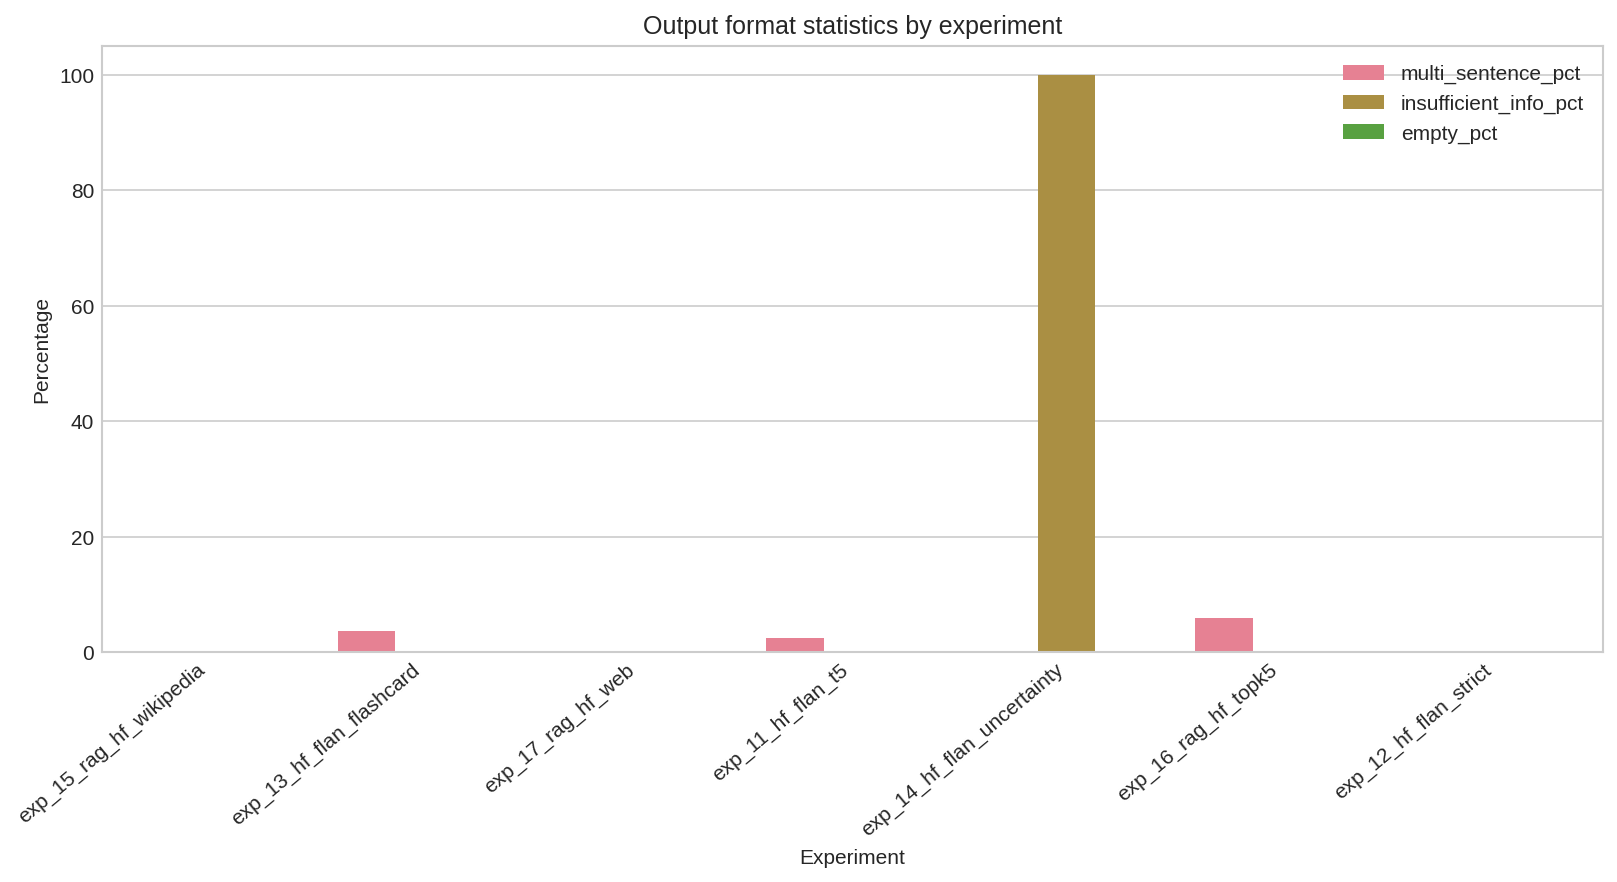
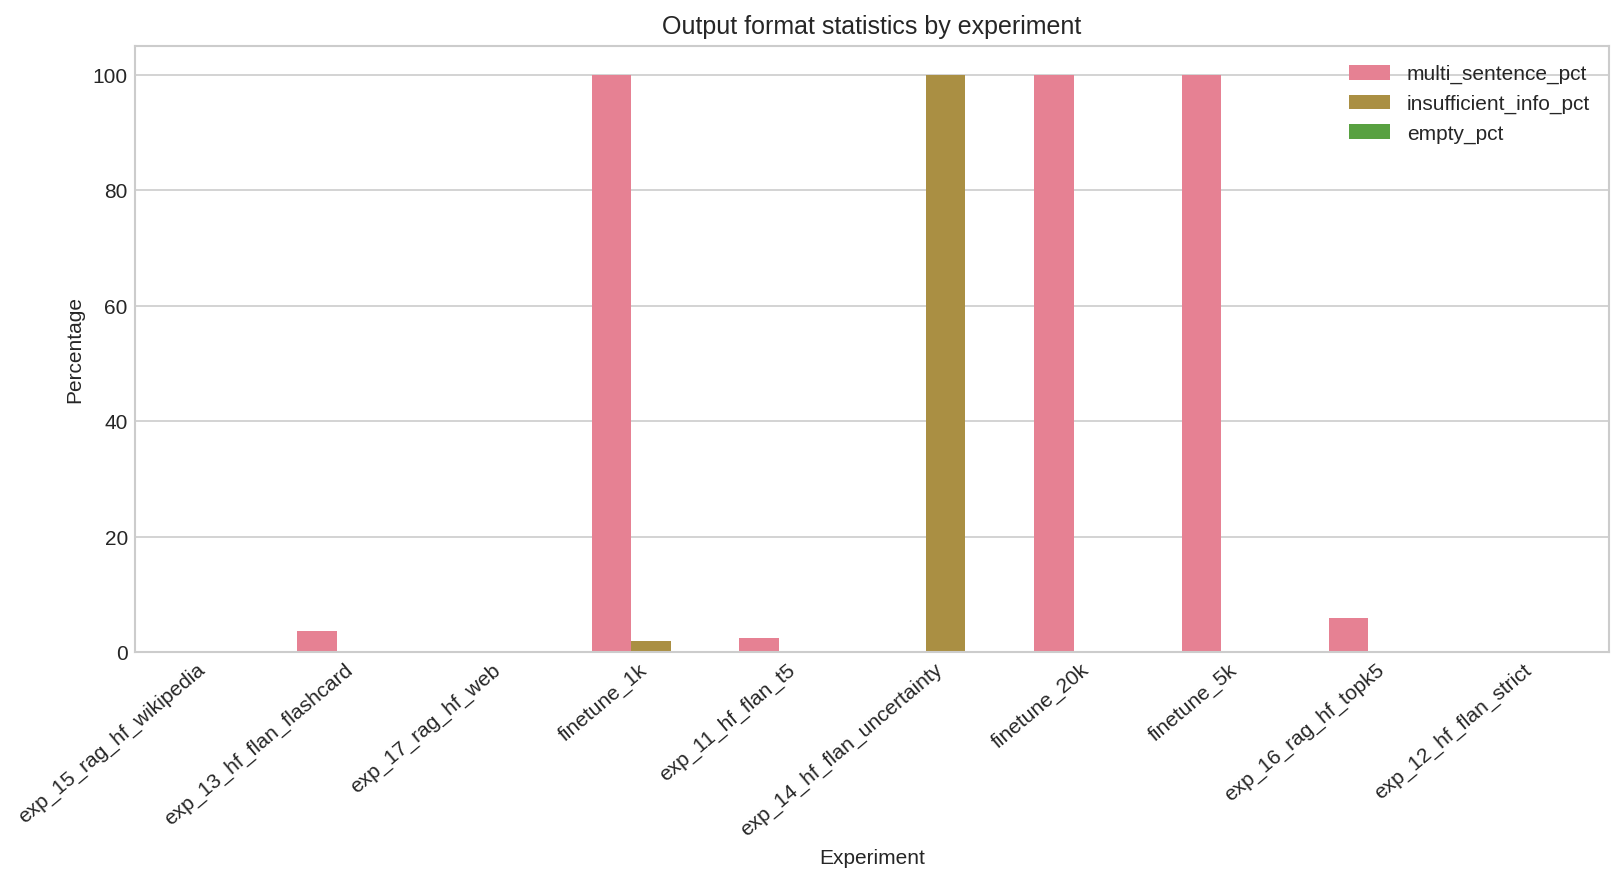
Integrate Colab finetune scores and refresh report artifacts

diff --git a/report/tables/main_results.tex b/report/tables/main_results.tex
@@ -9,8 +9,11 @@ Experiment & ROUGE-L & BLEU & Judge & Correct \% & Latency (ms) & N \\
 exp_15_rag_hf_wikipedia & 0.0866 & 0.0001 & 1.0000 & 2.0000 & 925.1218 & 50 \\
 exp_13_hf_flan_flashcard & 0.1328 & 0.0009 & 1.0250 & 2.5000 & 265.1750 & 80 \\
 exp_17_rag_hf_web & 0.1582 & 0.0003 & 1.0200 & 4.0000 & 1243.6535 & 50 \\
+finetune_1k & 0.2607 & 0.1299 & 1.2000 & 20.0000 & 6735.7373 & 50 \\
 exp_11_hf_flan_t5 & 0.0855 & 0.0000 & 1.0250 & 2.5000 & 189.5464 & 80 \\
 exp_14_hf_flan_uncertainty & 0.0004 & 0.0000 & 0.9875 & 0.0000 & 120.9768 & 80 \\
+finetune_20k & 0.2714 & 0.1445 & 1.2400 & 24.0000 & 6363.3981 & 50 \\
+finetune_5k & 0.2757 & 0.1428 & 1.1600 & 16.0000 & 6677.1999 & 50 \\
 exp_16_rag_hf_topk5 & 0.0576 & 0.0001 & 0.9800 & 2.0000 & 1450.5536 & 50 \\
 exp_12_hf_flan_strict & 0.1025 & 0.0000 & 1.0125 & 1.2500 & 231.6121 & 80 \\
 \bottomrule

diff --git a/report/tables/ablation.tex b/report/tables/ablation.tex
@@ -1,14 +1,14 @@
 \begin{table}[htbp]
 \centering
-\caption{Ablation Study: Effect of Retrieval Top-k in RAG}
+\caption{Ablation Study: Effect of Training Data Size}
 \label{tab:ablation}
-\begin{tabular}{lccccc}
+\begin{tabular}{lcccc}
 \toprule
-Configuration & Top-k & ROUGE-L & BLEU & Judge & Latency (ms) \\
+Configuration & Train Size & ROUGE-L & BLEU & Judge \\
 \midrule
-exp_15_rag_hf_wikipedia & 3 & 0.0866 & 0.0001 & 1.0000 & 925.1218 \\
-exp_17_rag_hf_web & 3 & 0.1582 & 0.0003 & 1.0200 & 1243.6535 \\
-exp_16_rag_hf_topk5 & 5 & 0.0576 & 0.0001 & 0.9800 & 1450.5536 \\
+finetune_1k & 1000 & 0.2607 & 0.1299 & 1.2000 \\
+finetune_5k & 5000 & 0.2757 & 0.1428 & 1.1600 \\
+finetune_20k & 20000 & 0.2714 & 0.1445 & 1.2400 \\
 \bottomrule
 \end{tabular}
 \end{table}
